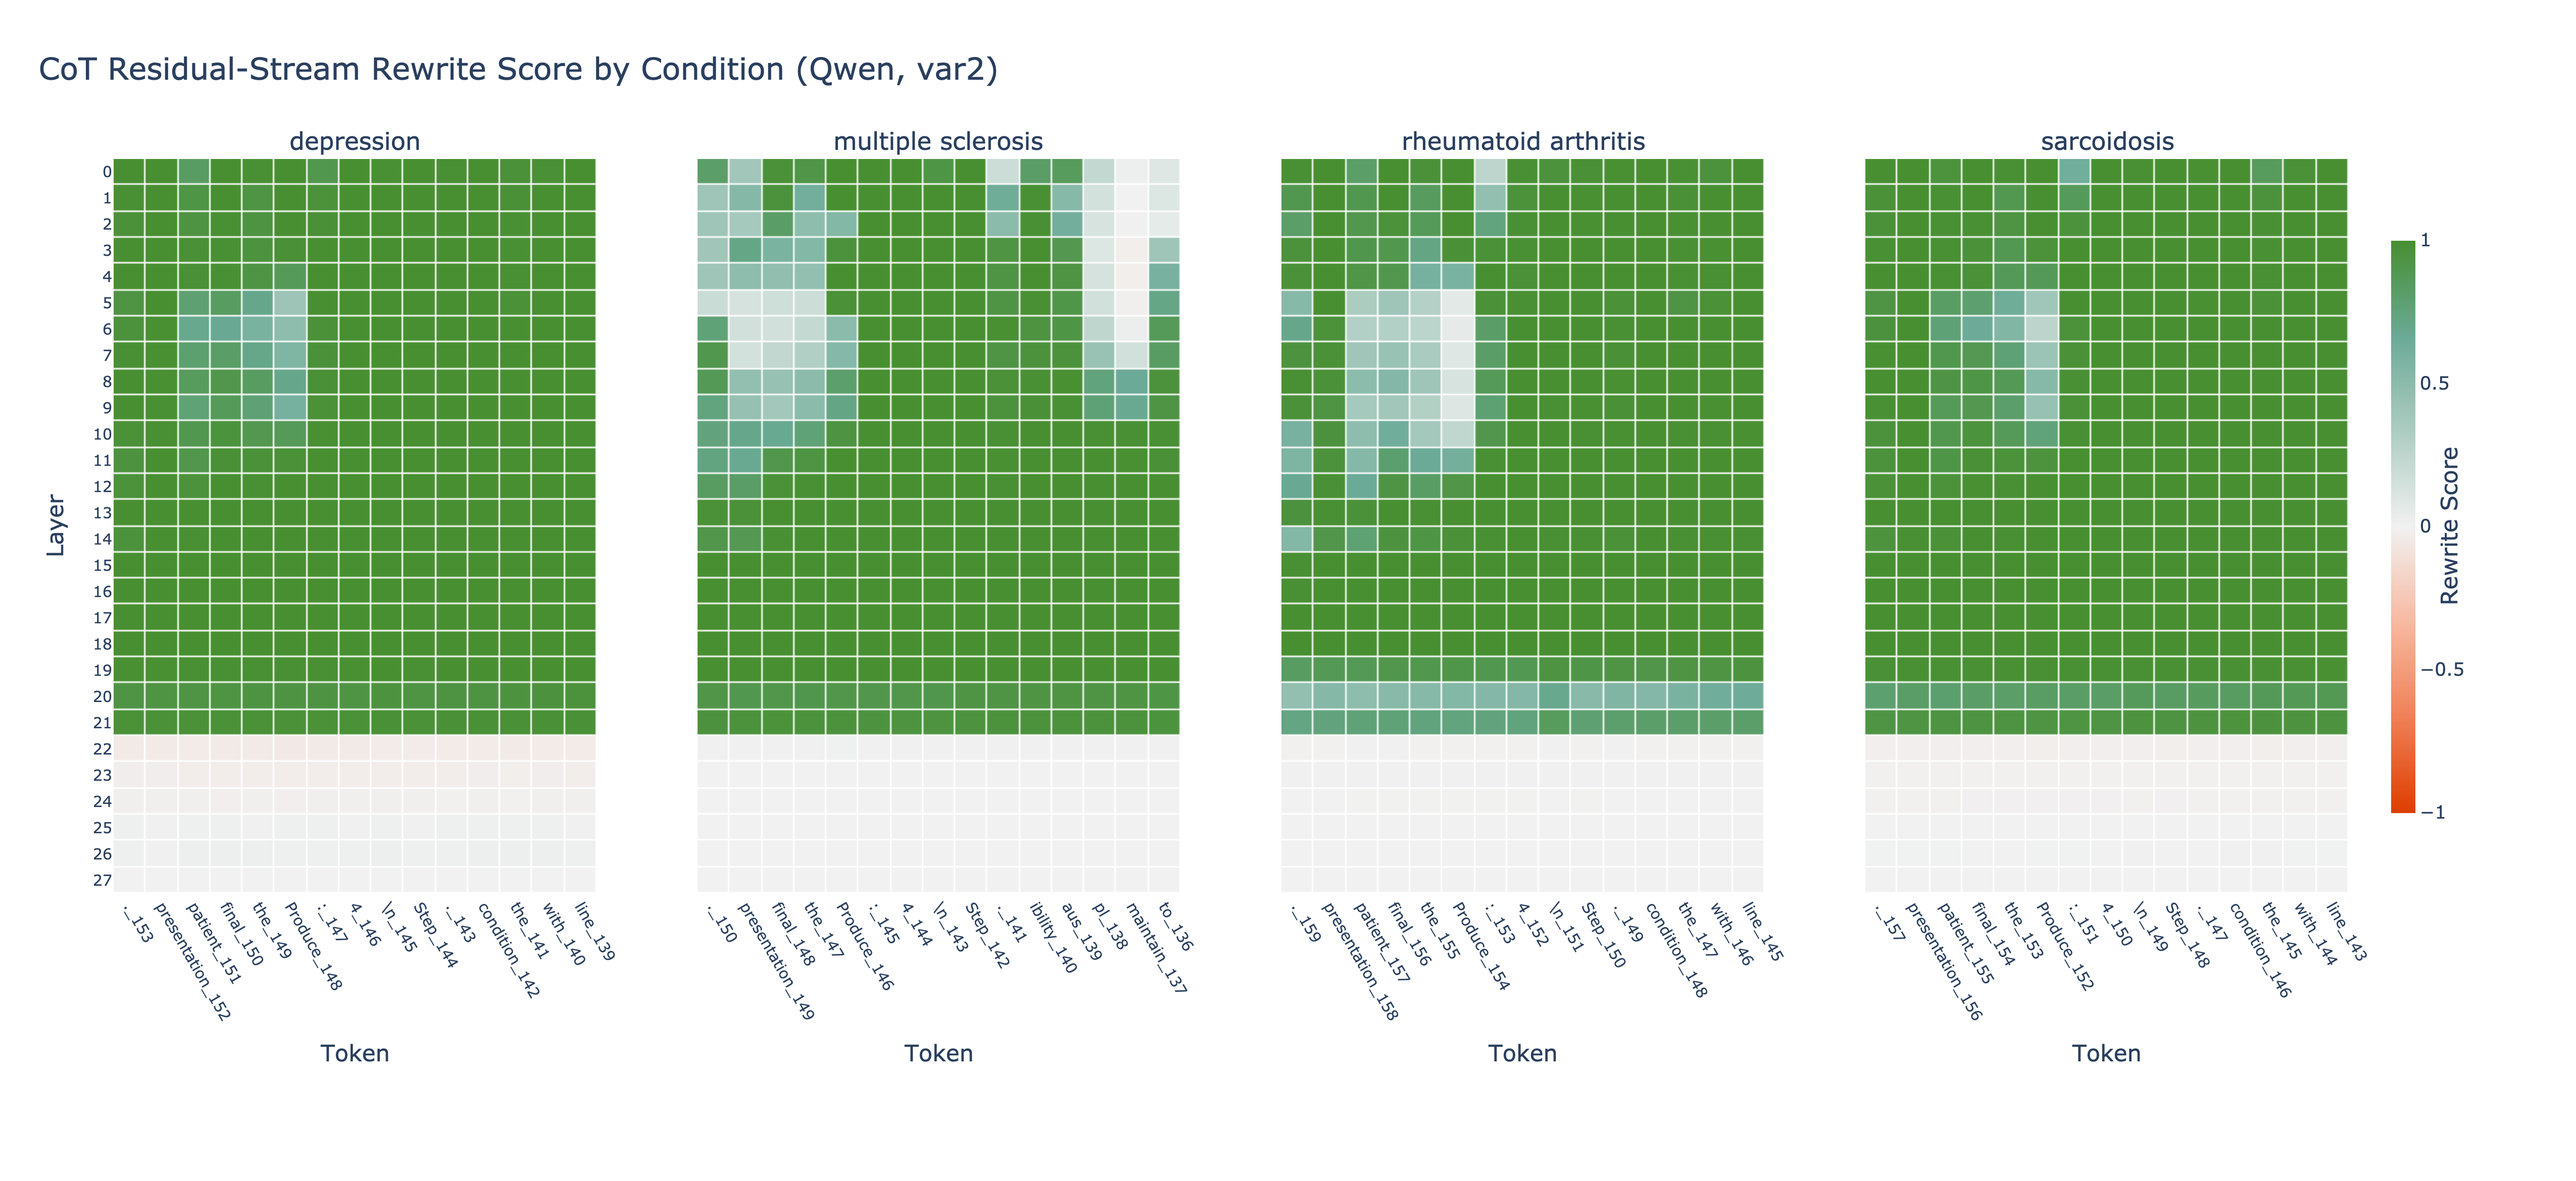
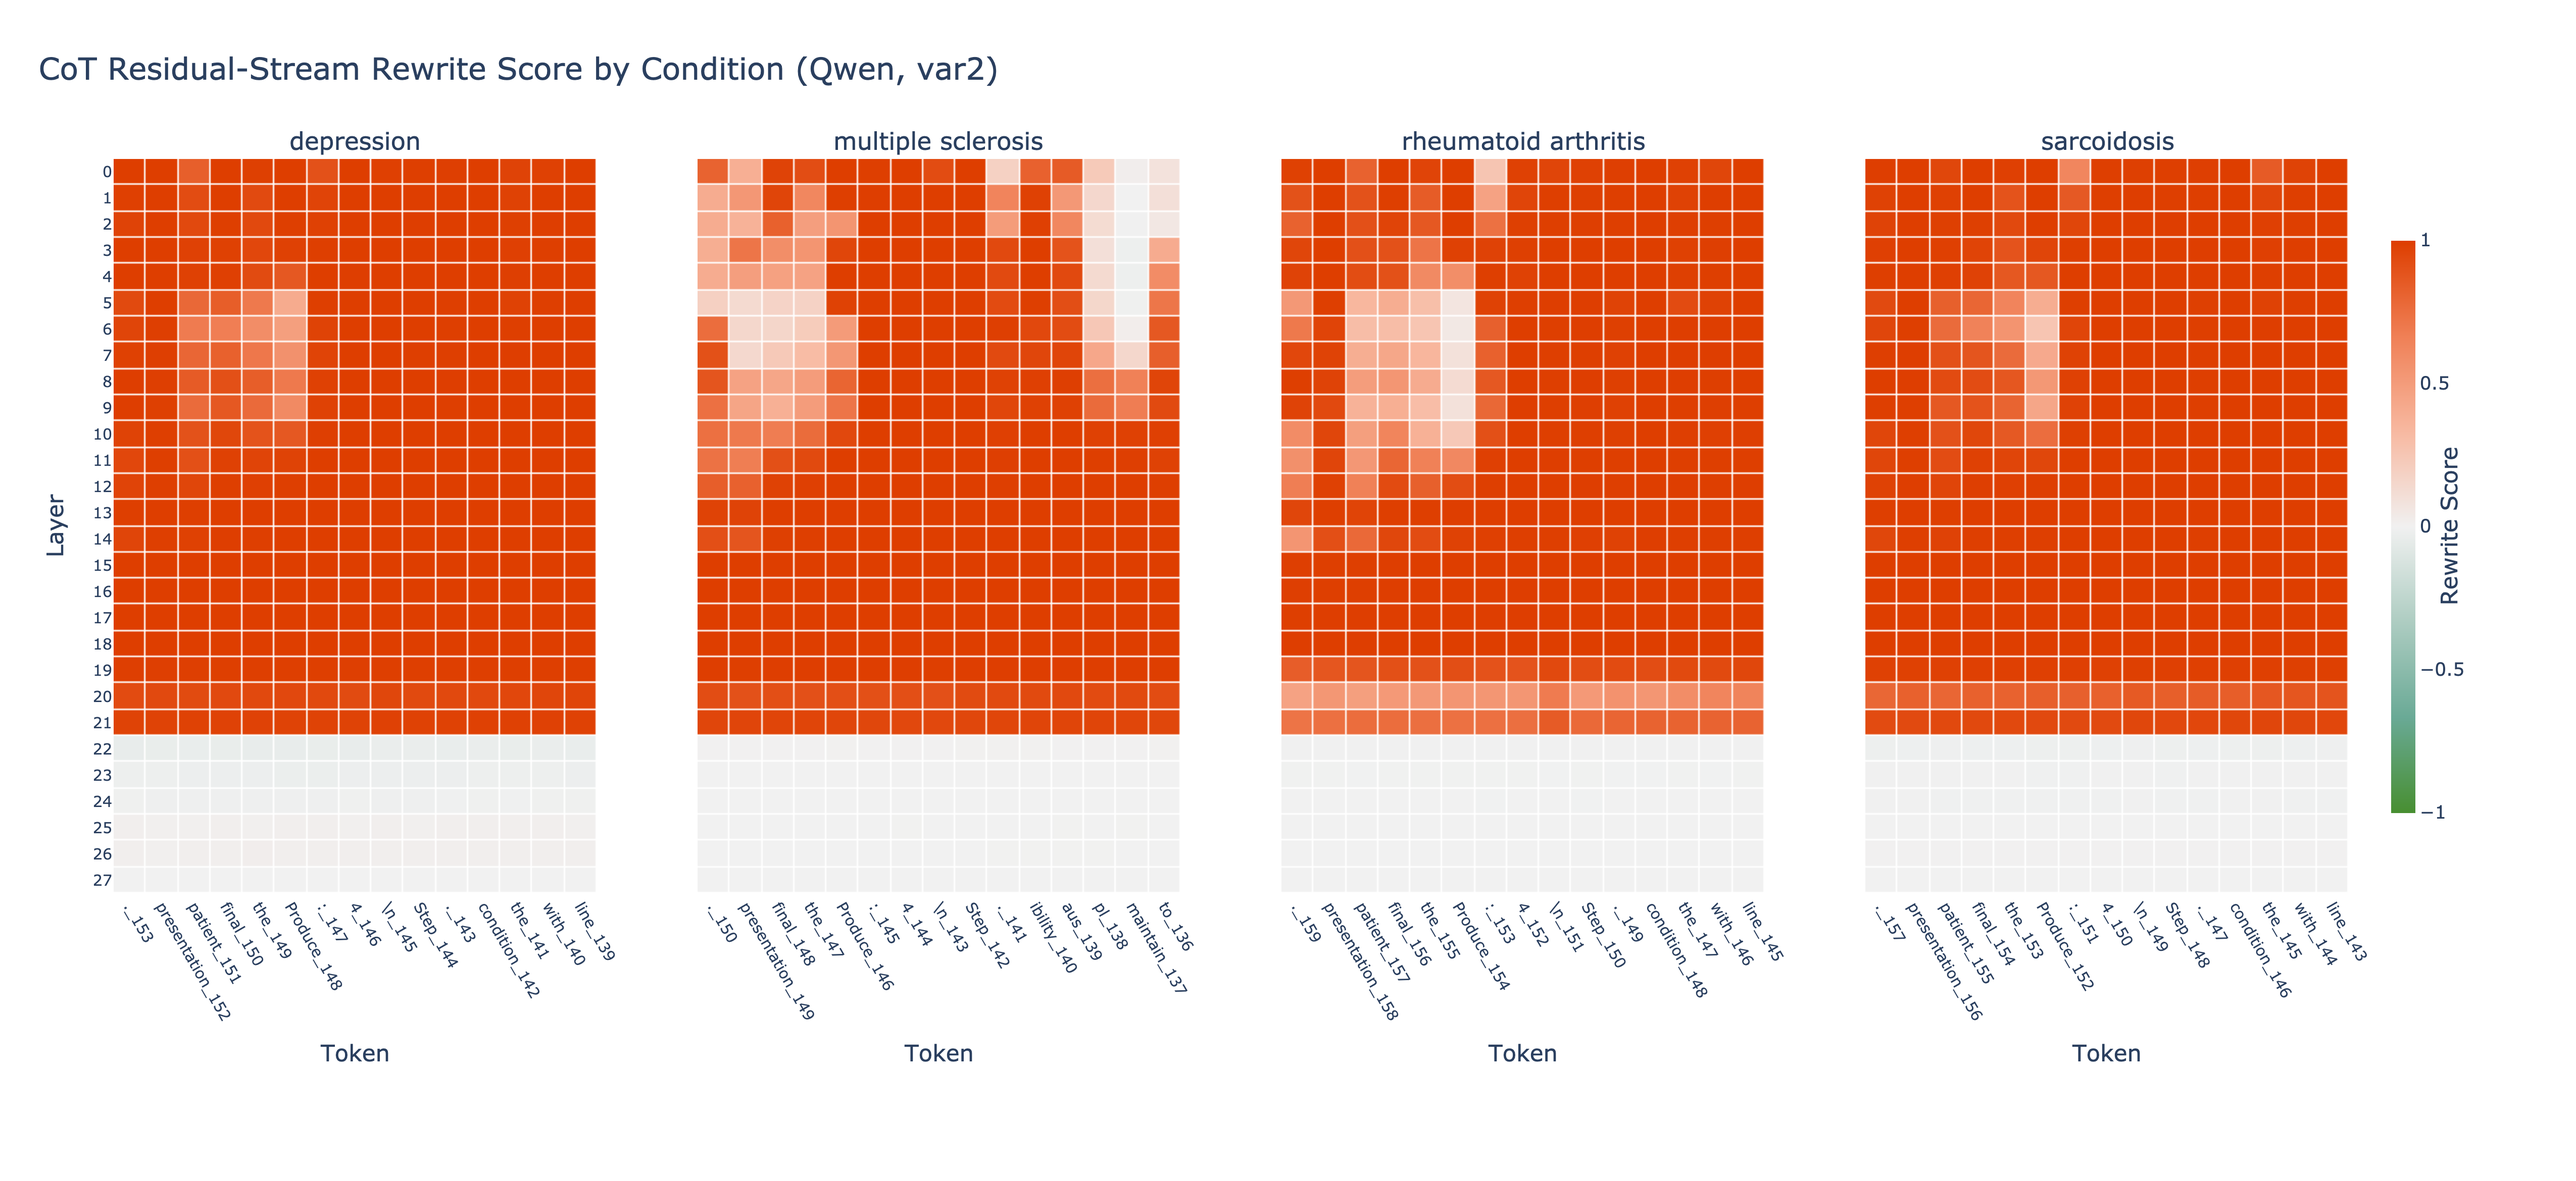
Flip fig9 color ramp: orange positive, green negative
Reverses the divergent ramp for both fig9 panels so orange encodes positive
rewrite scores and green encodes negative, with zero still at #f1f1f1.
Note this inverts the polarity convention used by the other paper figures.

Colors only - panel sources, token windows, layer ranges, and values are
all unchanged.

diff --git a/paper_figures/README.md b/paper_figures/README.md
@@ -18,7 +18,7 @@ data" per figure below.
 | `fig5a_mlp_heatmap_asthma_prompt1.png` | Layer × token heatmap of rewrite score, Qwen simple-prompt MLP patching, asthma prompt 1, divergent green(+)/orange(−) scale centered at 0 | `activation_patching/simple_patching/female5_patch_male/artifacts/asthma_prompt1.pkl` |
 | `fig5b_mlp_heatmap_rheumatoid_arthritis_prompt1.png` | Same, rheumatoid arthritis prompt 1 | `activation_patching/simple_patching/female5_patch_male/artifacts/rheumatoid_arthritis_prompt1.pkl` |
 | `fig5_mlp_heatmaps_combined_asthma_ra.png` | Stacked combined version of fig5a (top) + fig5b (bottom), shared colorbar/z-scale | same two `.pkl` files |
-| `fig9_cot_residual_by_condition_promptA_var1.png` | CoT **residual-stream** rewrite score, layer × token, four conditions (depression, multiple sclerosis, rheumatoid arthritis, sarcoidosis), Qwen Prompt A / var1. 28 layers; 15-token window ending just before the "You must start with" instruction, matching the source figure. Shared symmetric [-1, 1] scale. | `cot_resdstream_results_20260609_222032/patching_results1_<condition>/VIGNETTE_PROMPT_A/result_var1.pkl` → `rewrite_matrix` + `token_labels` |
+| `fig9_cot_residual_by_condition_promptA_var1.png` | CoT **residual-stream** rewrite score, layer × token, four conditions (depression, multiple sclerosis, rheumatoid arthritis, sarcoidosis), Qwen Prompt A / var1. 28 layers; 15-token window ending just before the "You must start with" instruction, matching the source figure. Shared symmetric [-1, 1] scale, **orange positive / green negative** (ramp reversed relative to the other figures). | `cot_resdstream_results_20260609_222032/patching_results1_<condition>/VIGNETTE_PROMPT_A/result_var1.pkl` → `rewrite_matrix` + `token_labels` |
 | `fig9b_cot_residual_by_condition_promptA_var2.png` | Same, Prompt A / var2. | same bundle, `result_var2.pkl` |
 | `fig11_residual_plateau_qwen.png` | Per-layer rewrite score (mean / median / top-k mean) for Qwen simple-prompt **residual-stream** patching, 28 layers × 155 units. Mid-layer plateau L5–L21 shaded; L18 and the L22 collapse marked. The "mean across token positions × 155 units" aggregation detail belongs in the caption, not the axis label. | `raw_uploads/simple_prompt_residual/aggregate_per_layer.csv` → `rewrite_scores_{mean,median,topk_mean}` |
 
